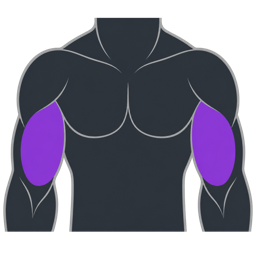
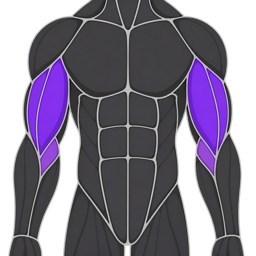
fix(logger): complete Level 3 muscle diagram family

diff --git a/lib/accessory-muscle-group.ts b/lib/accessory-muscle-group.ts
@@ -1,19 +1,28 @@
 export const ACCESSORY_MUSCLE_REGION_KEYS = [
   'chest',
   'shoulders',
+  'front_delts',
+  'side_delts',
+  'rear_delts',
   'biceps',
   'triceps',
   'forearms',
+  'arms',
   'lats',
   'upper_back',
+  'traps',
+  'rotator_cuff',
   'lower_back',
   'core',
+  'abs',
+  'obliques',
   'quads',
   'hamstrings',
   'glutes',
   'adductors',
+  'abductors',
+  'hip_flexors',
   'calves',
-  'arms',
   'full_body',
 ] as const;
 
@@ -37,19 +46,28 @@ type AccessoryMovement = Readonly<{
 const REGION_LABELS: Record<AccessoryMuscleRegionKey, string> = {
   chest: 'Chest',
   shoulders: 'Shoulders',
+  front_delts: 'Front delts',
+  side_delts: 'Side delts',
+  rear_delts: 'Rear delts',
   biceps: 'Biceps',
   triceps: 'Triceps',
   forearms: 'Forearms',
+  arms: 'Arms',
   lats: 'Lats',
   upper_back: 'Upper back',
+  traps: 'Traps',
+  rotator_cuff: 'Rotator cuff',
   lower_back: 'Lower back',
   core: 'Core',
+  abs: 'Abs',
+  obliques: 'Obliques',
   quads: 'Quads',
   hamstrings: 'Hamstrings',
   glutes: 'Glutes',
   adductors: 'Adductors',
+  abductors: 'Abductors',
+  hip_flexors: 'Hip flexors',
   calves: 'Calves',
-  arms: 'Arms',
   full_body: 'Full body',
 };
 
@@ -60,16 +78,25 @@ const GOVERNED_FAMILY_REGIONS: Readonly<Record<string, AccessoryMuscleRegionKey>
   chest: 'chest',
   chest_press: 'chest',
   incline_press: 'chest',
+  front_delts_pressing: 'front_delts',
+  side_delts: 'side_delts',
+  rear_delts_upper_back: 'rear_delts',
   deadlift: 'hamstrings',
   hamstrings: 'hamstrings',
   row: 'upper_back',
   upper_back: 'upper_back',
+  traps: 'traps',
+  rotator_cuff_rehab: 'rotator_cuff',
   vertical_pull: 'lats',
+  lats_upper_back: 'lats',
   lat: 'lats',
   lats: 'lats',
   lower_back: 'lower_back',
   plank: 'core',
   core: 'core',
+  core_abs: 'core',
+  abs: 'abs',
+  obliques: 'obliques',
   shoulder: 'shoulders',
   shoulders: 'shoulders',
   overhead_press: 'shoulders',
@@ -78,6 +105,8 @@ const GOVERNED_FAMILY_REGIONS: Readonly<Record<string, AccessoryMuscleRegionKey>
   forearms: 'forearms',
   glutes: 'glutes',
   adductors: 'adductors',
+  abductors: 'abductors',
+  hip_flexors: 'hip_flexors',
   calves: 'calves',
   arms: 'arms',
   full_body: 'full_body',
@@ -85,19 +114,28 @@ const GOVERNED_FAMILY_REGIONS: Readonly<Record<string, AccessoryMuscleRegionKey>
 
 const LEGACY_NAME_RULES: readonly [RegExp, AccessoryMuscleRegionKey][] = [
   [/\b(calf|calves|gastrocnemius|soleus)\b/i, 'calves'],
+  [/\b(rotator\s*cuff|external\s+rotation|internal\s+rotation|scaption)\b/i, 'rotator_cuff'],
+  [/\b(rear\s+delts?|reverse\s+(?:flye?|pec\s*deck))\b/i, 'rear_delts'],
+  [/\b(side\s+delts?|lateral\s*raise|upright\s*row)\b/i, 'side_delts'],
+  [/\b(front\s+delts?|front\s*raise)\b/i, 'front_delts'],
+  [/\b(traps?|shrugs?)\b/i, 'traps'],
   [/\b(triceps?|pressdown|pushdown|skull\s*crusher|overhead\s+extension)\b/i, 'triceps'],
   [/\b(biceps?|curl)\b/i, 'biceps'],
   [/\b(forearms?|wrist|grip|farmer(?:'s)?\s+(?:carry|walk))\b/i, 'forearms'],
-  [/\b(shoulders?|delts?|lateral\s*raise|rear\s*delt|overhead\s*press|military\s*press|upright\s*row)\b/i, 'shoulders'],
+  [/\b(shoulders?|delts?|overhead\s*press|military\s*press)\b/i, 'shoulders'],
   [/\b(chest|bench\s*press|pec|flye?|incline\s*press|push[- ]?up)\b/i, 'chest'],
   [/\b(lats?|pulldown|pull[- ]?up|chin[- ]?up)\b/i, 'lats'],
   [/\b(lower\s*back|back\s*extension|hyperextension|reverse\s*hyper)\b/i, 'lower_back'],
   [/\b(upper\s*back|rows?|face\s*pull)\b/i, 'upper_back'],
   [/\b(hamstrings?|leg\s*curl|rdl|romanian\s*deadlift|nordic|good\s*morning)\b/i, 'hamstrings'],
-  [/\b(glutes?|hip\s*thrust|glute\s*bridge|hip\s*abduction|kickback)\b/i, 'glutes'],
+  [/\b(hip\s*flexors?|iliopsoas|psoas|iliacus)\b/i, 'hip_flexors'],
+  [/\b(abductors?|hip\s*abduction|outer\s*thigh)\b/i, 'abductors'],
   [/\b(adductors?|inner\s*thigh|groin)\b/i, 'adductors'],
+  [/\b(glutes?|hip\s*thrust|glute\s*bridge|kickback)\b/i, 'glutes'],
   [/\b(quads?|leg\s*press|leg\s*extension|split\s*squat|lunges?|step[- ]?ups?|hack\s*squat)\b/i, 'quads'],
-  [/\b(core|abdominals?|abs|plank|crunch|sit[- ]?up|dead\s*bug|pallof)\b/i, 'core'],
+  [/\b(obliques?|side\s*bend|pallof|russian\s*twist|wood\s*chop)\b/i, 'obliques'],
+  [/\b(abdominals?|abs|crunch|sit[- ]?up|leg\s*raise)\b/i, 'abs'],
+  [/\b(core|plank|dead\s*bug|hollow\s*hold)\b/i, 'core'],
   [/\b(arms?)\b/i, 'arms'],
   [/\b(back)\b/i, 'upper_back'],
 ];
@@ -157,6 +195,12 @@ export function combineAccessoryMuscleRegions(
   const unique = new Set(resolved);
   if ([...unique].every((region) => ['biceps', 'triceps', 'forearms', 'arms'].includes(region))) {
     return presentation('arms');
+  }
+  if ([...unique].every((region) => ['front_delts', 'side_delts', 'rear_delts', 'shoulders', 'rotator_cuff'].includes(region))) {
+    return presentation('shoulders');
+  }
+  if ([...unique].every((region) => ['abs', 'obliques', 'core'].includes(region))) {
+    return presentation('core');
   }
 
   const counts = new Map<AccessoryMuscleRegionKey, number>();

diff --git a/lib/accessory-muscle-region-assets.ts b/lib/accessory-muscle-region-assets.ts
@@ -12,19 +12,28 @@ export const ACCESSORY_MUSCLE_REGION_ASSETS: Readonly<
 > = {
   chest: { label: 'Chest', source: require('../assets/images/muscle-regions/chest.png') },
   shoulders: { label: 'Shoulders', source: require('../assets/images/muscle-regions/shoulders.png') },
+  front_delts: { label: 'Front delts', source: require('../assets/images/muscle-regions/front-delts.png') },
+  side_delts: { label: 'Side delts', source: require('../assets/images/muscle-regions/side-delts.png') },
+  rear_delts: { label: 'Rear delts', source: require('../assets/images/muscle-regions/rear-delts.png') },
   biceps: { label: 'Biceps', source: require('../assets/images/muscle-regions/biceps.png') },
   triceps: { label: 'Triceps', source: require('../assets/images/muscle-regions/triceps.png') },
   forearms: { label: 'Forearms', source: require('../assets/images/muscle-regions/forearms.png') },
+  arms: { label: 'Arms', source: require('../assets/images/muscle-regions/arms.png') },
   lats: { label: 'Lats', source: require('../assets/images/muscle-regions/lats.png') },
   upper_back: { label: 'Upper back', source: require('../assets/images/muscle-regions/upper-back.png') },
+  traps: { label: 'Traps', source: require('../assets/images/muscle-regions/traps.png') },
+  rotator_cuff: { label: 'Rotator cuff', source: require('../assets/images/muscle-regions/rotator-cuff.png') },
   lower_back: { label: 'Lower back', source: require('../assets/images/muscle-regions/lower-back.png') },
   core: { label: 'Core', source: require('../assets/images/muscle-regions/core.png') },
+  abs: { label: 'Abs', source: require('../assets/images/muscle-regions/abs.png') },
+  obliques: { label: 'Obliques', source: require('../assets/images/muscle-regions/obliques.png') },
   quads: { label: 'Quads', source: require('../assets/images/muscle-regions/quads.png') },
   hamstrings: { label: 'Hamstrings', source: require('../assets/images/muscle-regions/hamstrings.png') },
   glutes: { label: 'Glutes', source: require('../assets/images/muscle-regions/glutes.png') },
   adductors: { label: 'Adductors', source: require('../assets/images/muscle-regions/adductors.png') },
+  abductors: { label: 'Abductors', source: require('../assets/images/muscle-regions/abductors.png') },
+  hip_flexors: { label: 'Hip flexors', source: require('../assets/images/muscle-regions/hip-flexors.png') },
   calves: { label: 'Calves', source: require('../assets/images/muscle-regions/calves.png') },
-  arms: { label: 'Arms', source: require('../assets/images/muscle-regions/arms.png') },
   full_body: { label: 'Full body', source: require('../assets/images/muscle-regions/full-body.png') },
 };
 
